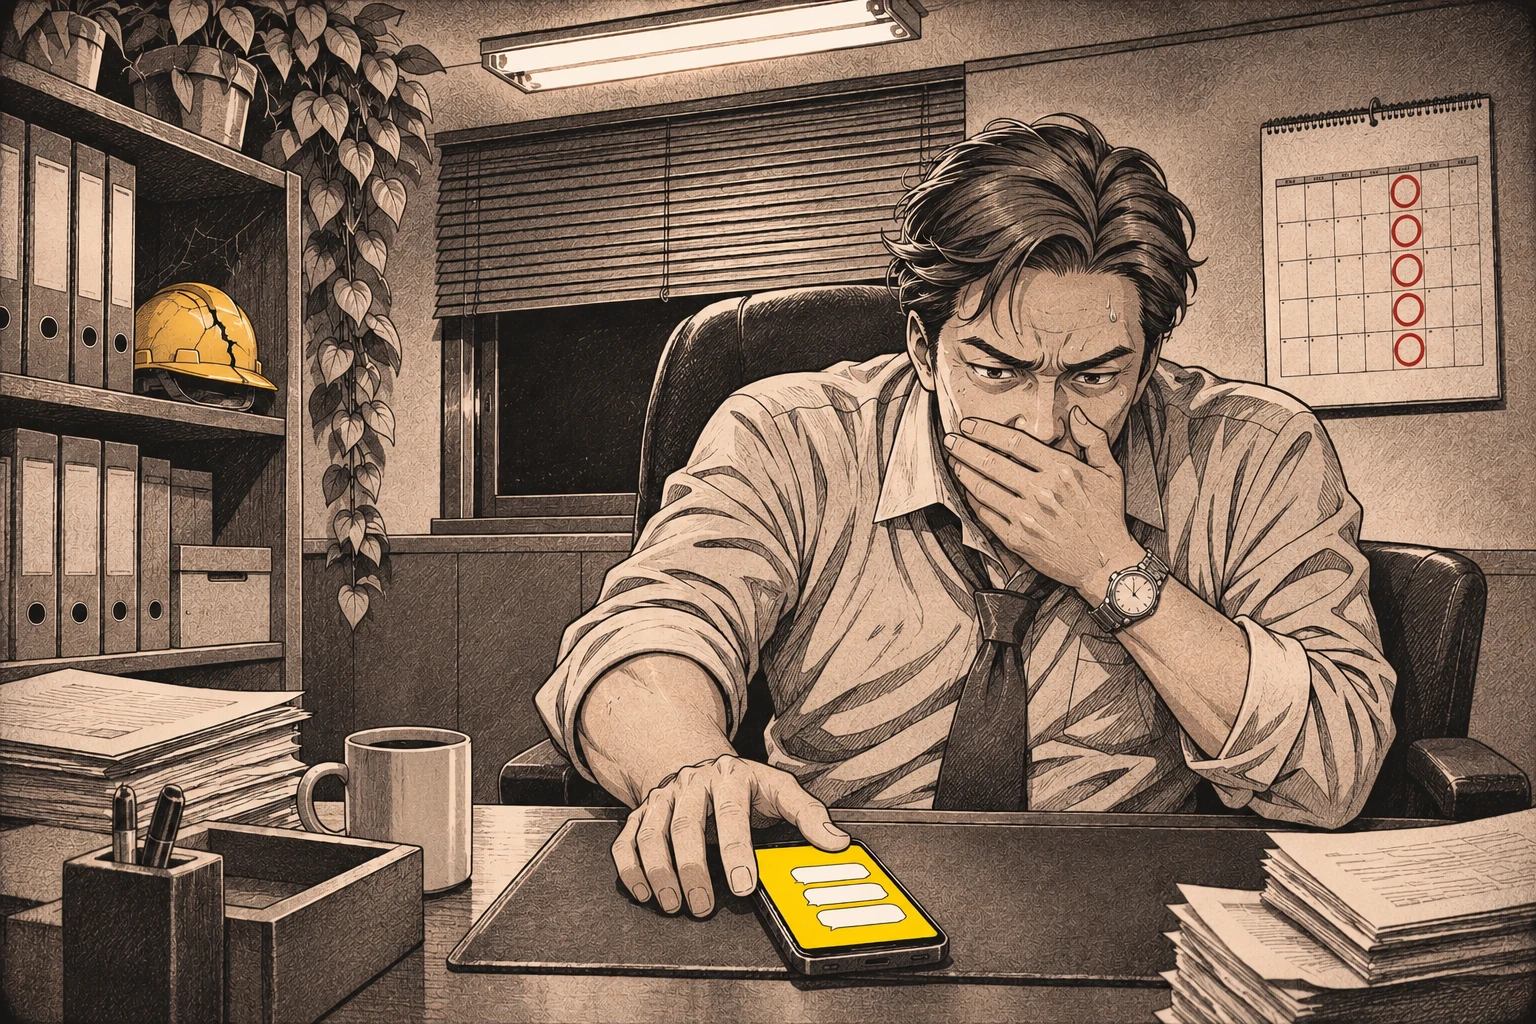
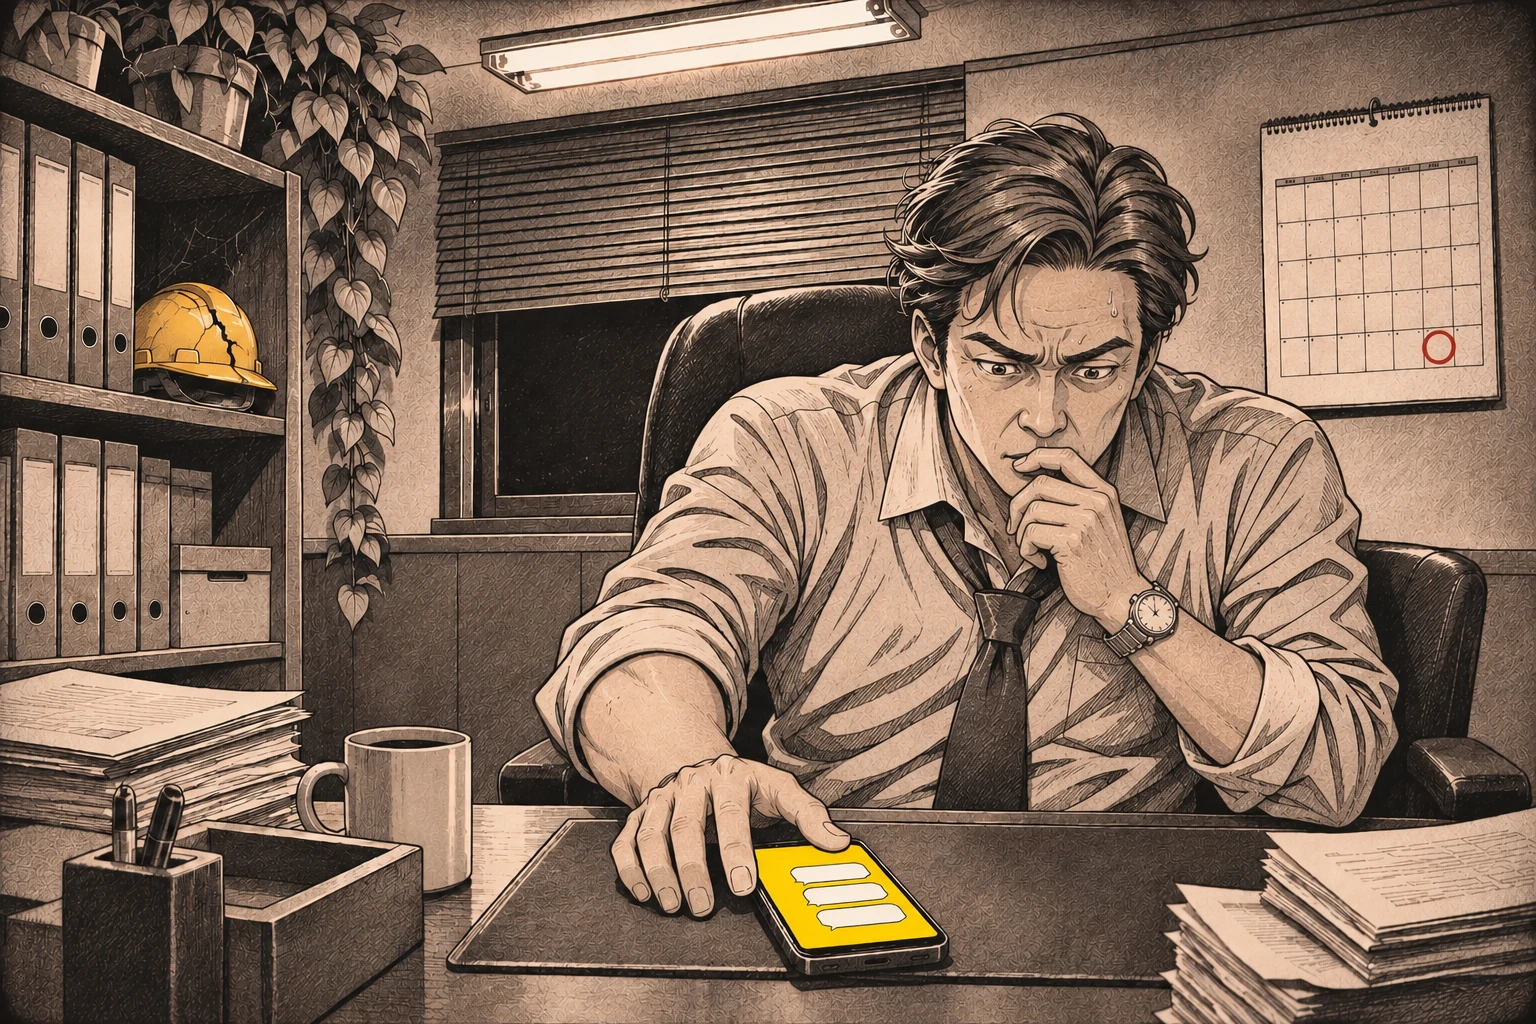
추리게임: 출근했습니다 정식 등록, 진행 표시 정리, 표지 수정본 반영
- attendance 후보 → live (누구나 목록에 보임)
- 큰 도장에서 '핵심' 글자 뺌
- 질문 막대 위에 단서가 열리는 자리 눈금 (열린 건 채움), '다음 단서까지 N문' 크게
- 제출은 칸으로 — 남은 기회만큼 채워져 있고 쓸 때마다 하나씩 빔
- 공개 사건 정보에 clueAt(단서 열리는 질문 수) 추가
- 표지: 긴장한 표정 · 달력 25일 한 칸 수정본이 실제로 들어가게 다시 씀

diff --git a/web/src/components/MysteryProto/MysteryProtoApp.tsx b/web/src/components/MysteryProto/MysteryProtoApp.tsx
@@ -30,6 +30,8 @@ interface PublicCase {
   credit?: string;
   /** 표지 삽화 */
   cover?: string;
+  /** 단서가 열리는 질문 수 (진행 막대 눈금) */
+  clueAt?: number[];
   /** 후보 사건 (관리자 · 개발 모드에만 뜸) */
   candidate?: boolean;
 }
@@ -149,24 +151,6 @@ function Bar({ value, max, color = GOLD }: { value: number; max: number; color?:
   );
 }
 
-function Stat({ label, value, max, color, hint }: { label: string; value: number; max: number; color?: string; hint?: string }) {
-  return (
-    <div>
-      <div className={`${mono} flex items-baseline justify-between text-[10px] text-white/40`}>
-        <span>{label}</span>
-        <span>
-          <b className="text-sm text-white">{value}</b>
-          <span className="text-white/30">/{max}</span>
-          {hint && <span className="ml-1.5 text-white/30">{hint}</span>}
-        </span>
-      </div>
-      <div className="mt-1">
-        <Bar value={value} max={max} color={color} />
-      </div>
-    </div>
-  );
-}
-
 function Cover({ src, className = "" }: { src?: string; className?: string }) {
   if (src) return <img src={src} alt="" draggable={false} className={`block w-full object-cover ${className}`} />;
   return (
@@ -183,7 +167,6 @@ function VerdictChip({ v, big }: { v: Verdict; big?: boolean }) {
       <span
         className={`${display} inline-flex -rotate-2 items-center gap-1 rounded-md px-2.5 py-1 text-sm tracking-wide ring-2 ring-offset-2 ring-offset-[#0E1015] ${b.cls}`}
       >
-        <span className="text-[10px] opacity-70">핵심</span>
         {b.label}
       </span>
     );
@@ -620,7 +603,7 @@ export default function MysteryProtoApp() {
           {(["YES", "NO", "UNKNOWN", "UNRELATED"] as Verdict[]).map((v) => (
             <VerdictChip key={v} v={v} />
           ))}
-          <span className="text-white/25">· 핵심을 짚으면 큰 도장 · 판정이 이상하면 🚩</span>
+          <span className="text-white/25">· 중요한 걸 짚으면 큰 도장 · 판정이 이상하면 🚩</span>
         </div>
       </div>
     );
@@ -633,6 +616,10 @@ export default function MysteryProtoApp() {
   const submitsLeft = c.submitLimit - view.submissions.length;
   const last = view.submissions.at(-1);
   const keyHits = view.questions.filter((q) => isKey(q.verdict)).length;
+  const openClues = () => {
+    setNewClue(false);
+    setSheet("clues");
+  };
 
   const caseCard = (
     <div className={`${panel} overflow-hidden`}>
@@ -651,22 +638,66 @@ export default function MysteryProtoApp() {
           <p className={`mt-1.5 text-sm leading-relaxed text-white/80 ${expanded ? "" : "line-clamp-1 lg:line-clamp-none"}`}>{c.prompt}</p>
         </div>
       </button>
-      <div className="grid grid-cols-3 gap-3 border-t border-white/[0.06] px-3 py-3 sm:px-4 lg:grid-cols-1 lg:gap-3">
-        <Stat label="질문" value={view.used} max={c.questionLimit} />
-        <Stat label="단서" value={view.clues.length} max={c.clueCount} color="#9FB7FF" hint={view.nextClueAt !== null ? `다음 ${view.nextClueAt}문` : undefined} />
-        <Stat label="제출" value={view.submissions.length} max={c.submitLimit} color="#E0657A" />
+      <div className="space-y-3 border-t border-white/[0.06] px-3 py-3 sm:px-4">
+        {/* 질문 막대 + 단서가 열리는 자리 표시 */}
+        <div>
+          <div className={`${mono} flex items-baseline justify-between text-[10px] text-white/40`}>
+            <span>질문</span>
+            <span>
+              <b className="text-sm text-white">{view.used}</b>
+              <span className="text-white/30">/{c.questionLimit}</span>
+            </span>
+          </div>
+          <div className="relative mt-1.5 h-1.5 rounded-full bg-white/[0.07]">
+            <div className="h-full rounded-full bg-[#D9B25F] transition-[width] duration-500" style={{ width: `${Math.min(100, (view.used / c.questionLimit) * 100)}%` }} />
+            {(c.clueAt ?? []).map((at, i) => {
+              const open = view.used >= at || done;
+              return (
+                <span
+                  key={i}
+                  title={`단서 ${i + 1} · ${at}문`}
+                  className={`absolute top-1/2 h-3 w-3 -translate-x-1/2 -translate-y-1/2 rounded-full border-2 ${open ? "border-[#9FB7FF] bg-[#9FB7FF]" : "border-[#9FB7FF]/60 bg-[#0E1015]"}`}
+                  style={{ left: `${(at / c.questionLimit) * 100}%` }}
+                />
+              );
+            })}
+          </div>
+        </div>
+        {/* 다음 단서 · 남은 제출 */}
+        <div className="flex items-center justify-between gap-3">
+          <button onClick={openClues} className="flex min-w-0 items-center gap-2 text-left">
+            <span className="flex h-6 w-6 shrink-0 items-center justify-center rounded-md bg-[#9FB7FF]/15 text-xs text-[#BFD0FF]">🔎</span>
+            <span className="min-w-0 text-xs leading-tight">
+              {view.nextClueAt !== null ? (
+                <>
+                  <span className="text-white/45">다음 단서까지 </span>
+                  <b className="text-sm text-[#BFD0FF]">{view.nextClueAt - view.used}</b>
+                  <span className="text-white/45">문</span>
+                </>
+              ) : (
+                <span className="text-white/45">단서 모두 공개</span>
+              )}
+              <span className={`${mono} block text-[10px] text-white/30`}>
+                단서 {view.clues.length}/{c.clueCount}
+              </span>
+            </span>
+          </button>
+          <div className="shrink-0 text-right">
+            <div className="flex justify-end gap-1">
+              {Array.from({ length: c.submitLimit }, (_, i) => (
+                <span key={i} className={`h-3.5 w-2.5 rounded-sm ${i < submitsLeft ? "bg-[#E0657A]" : "border border-white/15 bg-transparent"}`} />
+              ))}
+            </div>
+            <span className={`${mono} mt-1 block text-[10px] text-white/40`}>남은 제출 {submitsLeft}</span>
+          </div>
+        </div>
       </div>
       <p className={`${mono} hidden border-t border-white/[0.06] px-4 py-2.5 text-[10px] text-white/35 lg:block`}>
-        핵심 도장 {keyHits} · 정답 항목 {c.rubricCount}
+        큰 도장 {keyHits} · 정답 항목 {c.rubricCount}
         {c.bonusCount > 0 && ` · 보너스 ${c.bonusCount}`}
       </p>
     </div>
   );
-
-  const openClues = () => {
-    setNewClue(false);
-    setSheet("clues");
-  };
 
   /** 단서 · 제출 · 포기 (PC 는 사건 카드 아래, 폰은 입력창 아래) */
   const actions = (

diff --git a/server/src/games/mystery/game.ts b/server/src/games/mystery/game.ts
@@ -66,6 +66,8 @@ export interface PublicCase {
   questionLimit: number;
   submitLimit: number;
   clueCount: number;
+  /** 단서가 열리는 질문 수 (공개 정보 — 진행 막대 눈금) */
+  clueAt: number[];
   /** 정답(해결) 항목 수 */
   rubricCount: number;
   /** 보너스 항목 수 */
@@ -294,6 +296,7 @@ export const publicCase = (c: MysteryCase): PublicCase => ({
   questionLimit: c.questionLimit,
   submitLimit: c.submitLimit,
   clueCount: c.clues.length,
+  clueAt: c.clues.map((cl) => cl.unlockAt),
   rubricCount: requiredRubric(c).length,
   bonusCount: bonusRubric(c).length,
   ...(c.credit ? { credit: c.credit } : {}),
